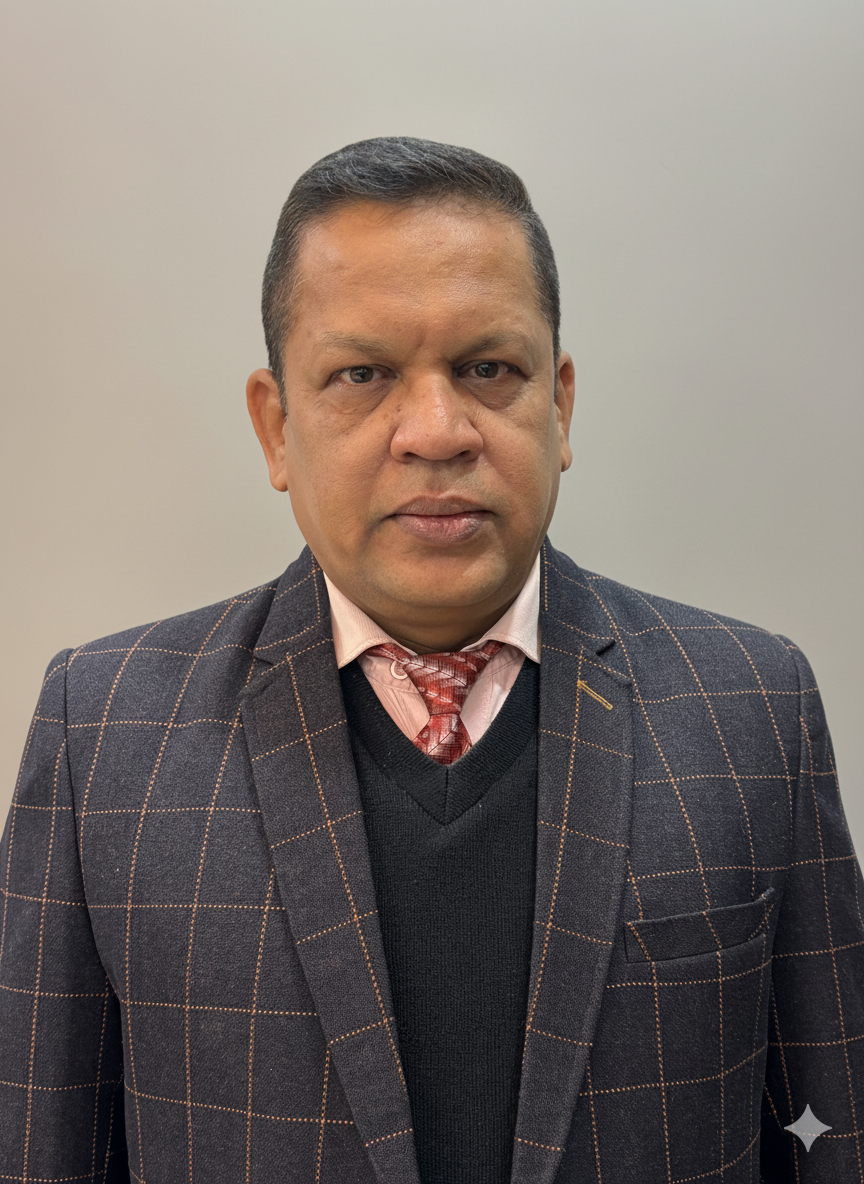
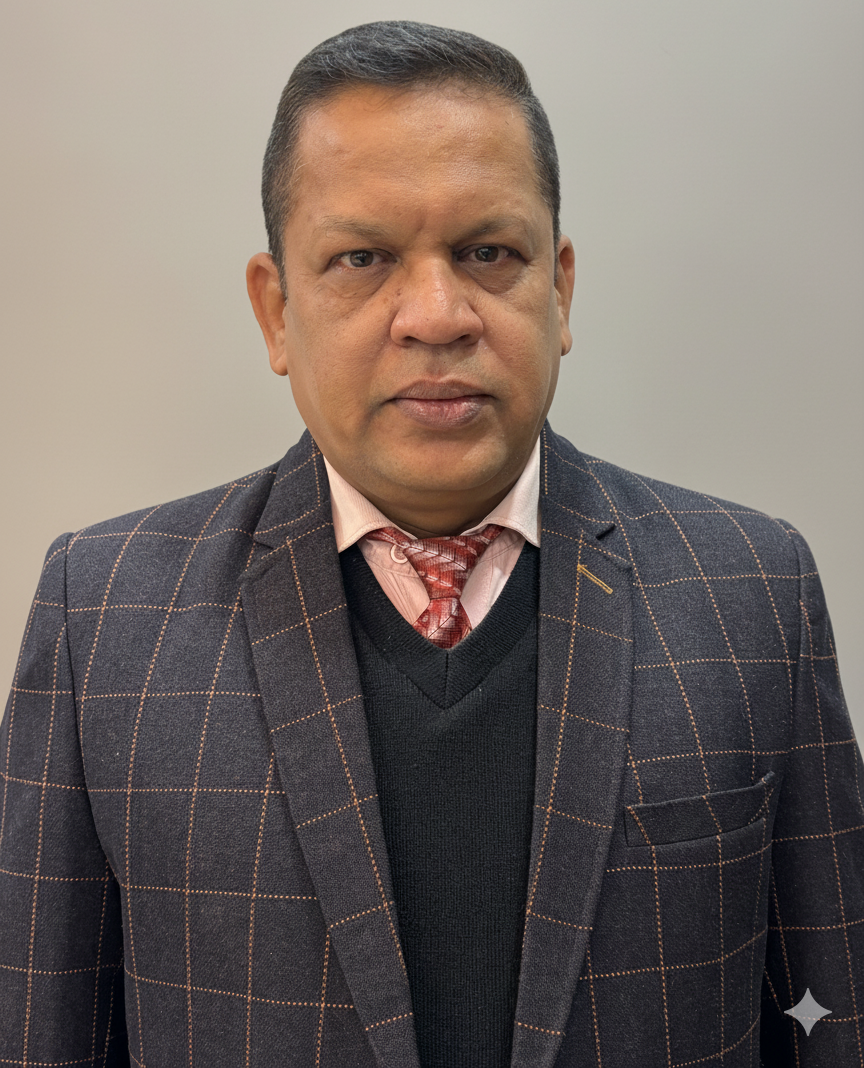
-Added Founders Photos -Added Our Vision section
v.1.8.4

diff --git a/src/components/3OurValuesGrid.jsx b/src/components/3OurValuesGrid.jsx
@@ -1,5 +1,3 @@
-// File: src/components/OurValuesGrid.jsx
-
 import React from "react";
 import { motion } from "framer-motion";
 import {
@@ -8,7 +6,11 @@ import {
   Users,
   SearchCheck,
   AlertCircle,
-  BadgeCheck
+  BadgeCheck,
+  Target,
+  Globe,
+  Zap,
+  TrendingUp
 } from "lucide-react";
 
 const values = [
@@ -48,7 +50,7 @@ const OurValuesGrid = () => {
   return (
     <>
       {/* Our Mission Section */}
-      <section className="relative py-20 md:py-32 px-4 md:px-12 text-white dark:bg-[#fafbff] dark:text-[#000a47] transition-colors overflow-hidden">
+      <section className="relative py-20 md:py-32 px-4 md:px-12 text-white dark:bg-transparent dark:text-[#000a47] transition-colors overflow-hidden">
         {/* Decorative Elements */}
         <div className="absolute top-0 left-0 w-72 h-72 bg-green-500/5 rounded-full blur-3xl"></div>
         <div className="absolute bottom-0 right-0 w-96 h-96 bg-blue-500/5 rounded-full blur-3xl"></div>
@@ -150,8 +152,163 @@ const OurValuesGrid = () => {
         </div>
       </section>
 
+      {/* Our Vision Section */}
+      <section className="relative py-20 md:py-32 px-4 md:px-12 text-white dark:bg-transparent dark:text-[#000a47] transition-colors overflow-hidden">
+        {/* Decorative Elements */}
+        <div className="absolute top-0 right-0 w-72 h-72 bg-blue-500/5 rounded-full blur-3xl"></div>
+        <div className="absolute bottom-0 left-0 w-96 h-96 bg-purple-500/5 rounded-full blur-3xl"></div>
+        
+        <div className="max-w-5xl mx-auto relative z-10">
+          <motion.div
+            initial={{ opacity: 0, y: 30 }}
+            whileInView={{ opacity: 1, y: 0 }}
+            transition={{ duration: 0.8 }}
+            viewport={{ once: true, amount: 0.3 }}
+            className="space-y-12 md:space-y-16"
+          >
+            {/* Eyebrow Text */}
+            <div className="text-center">
+              <motion.p
+                initial={{ opacity: 0 }}
+                whileInView={{ opacity: 1 }}
+                transition={{ delay: 0.2, duration: 0.6 }}
+                viewport={{ once: true }}
+                className="text-blue-400 dark:text-blue-600 text-xs md:text-sm uppercase tracking-[0.3em] font-semibold mb-4"
+              >
+                Where We're Heading
+              </motion.p>
+              <motion.h2
+                initial={{ opacity: 0, y: 20 }}
+                whileInView={{ opacity: 1, y: 0 }}
+                transition={{ delay: 0.3, duration: 0.7 }}
+                viewport={{ once: true }}
+                className="text-4xl md:text-6xl lg:text-7xl font-bold font-playfair mb-3 tracking-tight dark:text-[#000a47] transition-colors"
+              >
+                Our Vision
+              </motion.h2>
+              <motion.div
+                initial={{ scaleX: 0 }}
+                whileInView={{ scaleX: 1 }}
+                transition={{ delay: 0.5, duration: 0.8 }}
+                viewport={{ once: true }}
+                className="w-24 h-1 bg-gradient-to-r from-blue-500 to-purple-500 mx-auto rounded-full"
+              ></motion.div>
+            </div>
+
+            {/* Main Content */}
+            <motion.div
+              initial={{ opacity: 0 }}
+              whileInView={{ opacity: 1 }}
+              transition={{ delay: 0.6, duration: 0.8 }}
+              viewport={{ once: true }}
+              className="space-y-8 md:space-y-10"
+            >
+              <p className="text-xl md:text-2xl lg:text-3xl leading-relaxed md:leading-relaxed font-light text-gray-100 dark:text-[#0a0a0a] transition-colors text-center max-w-4xl mx-auto">
+                To become India's <span className="italic text-blue-300 dark:text-blue-700">most trusted and innovative</span> security solutions provider, setting new benchmarks in <span className="font-semibold text-white dark:text-[#000a47]">safety</span>, <span className="font-semibold text-white dark:text-[#000a47]">technology</span>, and <span className="font-semibold text-white dark:text-[#000a47]">service excellence</span>.
+              </p>
+
+              <div className="grid md:grid-cols-2 gap-8 md:gap-12 mt-12">
+                <motion.div
+                  initial={{ opacity: 0, x: -30 }}
+                  whileInView={{ opacity: 1, x: 0 }}
+                  transition={{ delay: 0.7, duration: 0.6 }}
+                  viewport={{ once: true }}
+                  className="space-y-4"
+                >
+                  <div className="flex items-center gap-3 mb-4">
+                    <div className="p-2 rounded-lg bg-blue-500/20 dark:bg-blue-600/20">
+                      <Globe className="w-6 h-6 text-blue-400 dark:text-blue-600" />
+                    </div>
+                    <h3 className="text-2xl md:text-3xl font-semibold font-playfair text-white dark:text-[#000a47]">
+                      National Expansion
+                    </h3>
+                  </div>
+                  <p className="text-base md:text-lg leading-loose text-gray-300 dark:text-[#2a2a2a] transition-colors">
+                    We envision expanding our presence across every major city in India, becoming the <span className="font-medium text-white dark:text-[#000a47]">go-to security partner</span> for enterprises, residential complexes, events, and government institutions nationwide.
+                  </p>
+                </motion.div>
+
+                <motion.div
+                  initial={{ opacity: 0, x: 30 }}
+                  whileInView={{ opacity: 1, x: 0 }}
+                  transition={{ delay: 0.8, duration: 0.6 }}
+                  viewport={{ once: true }}
+                  className="space-y-4"
+                >
+                  <div className="flex items-center gap-3 mb-4">
+                    <div className="p-2 rounded-lg bg-purple-500/20 dark:bg-purple-600/20">
+                      <Zap className="w-6 h-6 text-purple-400 dark:text-purple-600" />
+                    </div>
+                    <h3 className="text-2xl md:text-3xl font-semibold font-playfair text-white dark:text-[#000a47]">
+                      Tech-Driven Security
+                    </h3>
+                  </div>
+                  <p className="text-base md:text-lg leading-loose text-gray-300 dark:text-[#2a2a2a] transition-colors">
+                    We're committed to integrating <span className="font-medium text-white dark:text-[#000a47]">AI-powered surveillance</span>, real-time monitoring systems, and smart analytics to revolutionize how security is delivered and experienced.
+                  </p>
+                </motion.div>
+              </div>
+
+              <div className="grid md:grid-cols-2 gap-8 md:gap-12">
+                <motion.div
+                  initial={{ opacity: 0, x: -30 }}
+                  whileInView={{ opacity: 1, x: 0 }}
+                  transition={{ delay: 0.9, duration: 0.6 }}
+                  viewport={{ once: true }}
+                  className="space-y-4"
+                >
+                  <div className="flex items-center gap-3 mb-4">
+                    <div className="p-2 rounded-lg bg-green-500/20 dark:bg-green-600/20">
+                      <Target className="w-6 h-6 text-green-400 dark:text-green-600" />
+                    </div>
+                    <h3 className="text-2xl md:text-3xl font-semibold font-playfair text-white dark:text-[#000a47]">
+                      Specialized Solutions
+                    </h3>
+                  </div>
+                  <p className="text-base md:text-lg leading-loose text-gray-300 dark:text-[#2a2a2a] transition-colors">
+                    From <span className="font-medium text-white dark:text-[#000a47]">event security</span> to <span className="font-medium text-white dark:text-[#000a47]">VIP protection</span>, we aim to develop highly specialized divisions that cater to unique security needs with precision and expertise.
+                  </p>
+                </motion.div>
+
+                <motion.div
+                  initial={{ opacity: 0, x: 30 }}
+                  whileInView={{ opacity: 1, x: 0 }}
+                  transition={{ delay: 1, duration: 0.6 }}
+                  viewport={{ once: true }}
+                  className="space-y-4"
+                >
+                  <div className="flex items-center gap-3 mb-4">
+                    <div className="p-2 rounded-lg bg-orange-500/20 dark:bg-orange-600/20">
+                      <TrendingUp className="w-6 h-6 text-orange-400 dark:text-orange-600" />
+                    </div>
+                    <h3 className="text-2xl md:text-3xl font-semibold font-playfair text-white dark:text-[#000a47]">
+                      Empowering Communities
+                    </h3>
+                  </div>
+                  <p className="text-base md:text-lg leading-loose text-gray-300 dark:text-[#2a2a2a] transition-colors">
+                    Beyond business growth, we aspire to <span className="font-medium text-white dark:text-[#000a47]">empower local communities</span> by providing employment, training, and skill development opportunities in the security sector.
+                  </p>
+                </motion.div>
+              </div>
+
+              <motion.div
+                initial={{ opacity: 0, y: 30 }}
+                whileInView={{ opacity: 1, y: 0 }}
+                transition={{ delay: 1.1, duration: 0.7 }}
+                viewport={{ once: true }}
+                className="mt-16 p-8 md:p-12 rounded-2xl bg-gradient-to-br from-white/5 to-white/10 dark:from-[#e8eaff] dark:to-[#f5f7ff] backdrop-blur-sm border border-white/10 dark:border-gray-200"
+              >
+                <p className="text-xl md:text-2xl lg:text-3xl leading-relaxed font-medium text-center text-white dark:text-[#000a47] transition-colors italic">
+                  "To build a <span className="text-blue-400 dark:text-blue-600 not-italic font-bold">safer India</span>, one where security is not a luxury but a <span className="text-blue-400 dark:text-blue-600 not-italic font-bold">fundamental right</span>, accessible to all and powered by <span className="text-blue-400 dark:text-blue-600 not-italic font-bold">innovation</span>."
+                </p>
+              </motion.div>
+            </motion.div>
+          </motion.div>
+        </div>
+      </section>
+
       {/* Our Values Section */}
-      <section className="py-12 md:py-20 px-4 md:px-12 text-white dark:bg-[#f2f4ff] dark:text-[#000a47] transition-colors">
+      <section className="py-12 md:py-20 px-4 md:px-12 text-white bg-transparent dark:bg-transparent dark:text-[#000a47] transition-colors">
         <div className="max-w-6xl mx-auto">
           <motion.h2
             initial={{ opacity: 0, y: 20 }}
@@ -172,7 +329,7 @@ const OurValuesGrid = () => {
                 transition={{ delay: index * 0.1, duration: 0.5 }}
                 viewport={{ once: true, amount: 0.6 }}
                 className="p-4 md:p-5 rounded-xl border border-white/10 bg-white/5 backdrop-blur-sm hover:shadow-lg hover:shadow-green-500/10 transition-all
-                dark:bg-[#fafbff] transition-shadow duration-500 shadow-lg dark:shadow-[0_0_20px_#7B7A72]"
+                dark:bg-[#f2f4ff] transition-shadow duration-500 shadow-lg dark:shadow-[0_0_20px_#7B7A72]"
               >
                 <div className="flex items-center gap-3 mb-3">
                   {item.icon}

diff --git a/src/components/3FounderCard.jsx b/src/components/3FounderCard.jsx
@@ -3,7 +3,8 @@
 import React from "react";
 import { motion } from "framer-motion";
 import { Quote, ShieldCheck, MapPin, Award } from "lucide-react";
-import founderImg from "../assets/logo.png";
+import founderImg1 from "../assets/founder1.png";
+import founderImg2 from "../assets/founder2.png";
 import SpotlightCard from "../ReactBits/SpotlightCard.jsx";
 import { useTheme } from "../ThemeContext.jsx";
 
@@ -39,16 +40,16 @@ const FounderCard = () => {
               className="text-center"
             >
               <div className="relative mb-3 inline-block">
-                <div className="w-24 h-24 sm:w-28 sm:h-28 rounded-full overflow-hidden border-2 border-green-400/30 shadow-lg">
+                <div className="w-28 h-28 sm:w-28 sm:h-28 rounded-full overflow-hidden border-2 border-green-400/30 shadow-lg">
                   <img
-                    src={founderImg}
+                    src={founderImg1}
                     alt="Amardeep Founder"
                     className="w-full h-full object-cover object-top"
                   />
                 </div>
                 
                 <div className="absolute -bottom-1 -right-1 bg-green-400 text-black px-2 py-0.5 rounded-full text-[10px] font-semibold">
-                  CEO
+                  Founder & CEO
                 </div>
               </div>
 
@@ -79,9 +80,9 @@ const FounderCard = () => {
               className="text-center"
             >
               <div className="relative mb-3 inline-block">
-                <div className="w-24 h-24 sm:w-28 sm:h-28 rounded-full overflow-hidden border-2 border-blue-400/30 shadow-lg">
+                <div className="w-28 h-28 sm:w-28 sm:h-28 rounded-full overflow-hidden border-2 border-blue-400/30 shadow-lg">
                   <img
-                    src={founderImg}
+                    src={founderImg2}
                     alt="Co-Founder"
                     className="w-full h-full object-cover object-top"
                   />
@@ -94,7 +95,7 @@ const FounderCard = () => {
 
               <div className="mb-3">
                 <h3 className="text-lg sm:text-xl font-bold font-poppins text-white dark:text-[#010944] mb-1">
-                  Name Here
+                  Dalip Ram
                 </h3>
                 <p className="text-[10px] sm:text-xs text-green-400 font-medium mb-1">Ex Army Chief</p>
                 
@@ -160,14 +161,14 @@ const FounderCard = () => {
               <div className="relative mb-6">
                 <div className="w-48 lg:w-56 h-48 lg:h-56 rounded-full overflow-hidden border-3 border-green-400/20 shadow-xl">
                   <img
-                    src={founderImg}
+                    src={founderImg1}
                     alt="Amardeep Founder"
                     className="w-full h-full object-cover object-top hover:scale-105 transition-transform duration-500"
                   />
                 </div>
                 
                 <div className="absolute -bottom-3 -right-3 bg-green-400 text-black px-4 py-2 rounded-full text-sm font-semibold shadow-lg">
-                  CEO
+                  Founder & CEO
                 </div>
               </div>
 
@@ -179,7 +180,7 @@ const FounderCard = () => {
                 <div className="space-y-2">
                   <div className="flex items-center justify-center gap-3 text-base text-gray-300 dark:text-[#010944]">
                     <ShieldCheck className="w-5 h-5 text-green-400" />
-                    <span>Chief Security Officer</span>
+                    <span>Chief Executive Officer</span>
                   </div>
                   <div className="flex items-center justify-center gap-3 text-sm text-gray-400 dark:text-[#010944]">
                     <div className="w-2 h-2 bg-green-400 rounded-full"></div>
@@ -200,7 +201,7 @@ const FounderCard = () => {
               <div className="relative mb-6">
                 <div className="w-48 lg:w-56 h-48 lg:h-56 rounded-full overflow-hidden border-3 border-blue-400/20 shadow-xl">
                   <img
-                    src={founderImg}
+                    src={founderImg2}
                     alt="Co-Founder"
                     className="w-full h-full object-cover object-top hover:scale-105 transition-transform duration-500"
                   />
@@ -214,7 +215,7 @@ const FounderCard = () => {
               <div className="space-y-3">
                 <div>
                   <h3 className="text-3xl font-bold font-poppins text-white dark:text-[#010944]">
-                    Name Here
+                    Dalip Ram
                   </h3>
                   <p className="text-base text-green-400 font-medium mt-1">Ex Army Chief</p>
                 </div>
@@ -259,7 +260,7 @@ const FounderCard = () => {
                 <div className="text-center mt-6">
                   <div className="w-20 h-0.5 bg-gradient-to-r from-green-400 to-blue-400 mx-auto mb-4"></div>
                   <div className="text-white dark:text-[#010944] font-bold text-xl font-poppins">
-                    — Leadership Team
+                    — Amardeep
                   </div>
                   <div className="text-gray-400 dark:text-[#010944] text-base mt-2">
                     Vyan Security

diff --git a/src/components/Footer.jsx b/src/components/Footer.jsx
@@ -85,7 +85,7 @@ export default function Footer() {
           </div>
         </div>
         <div className="flex items-center justify-center gap-2 mt-2 text-[10px] text-gray-500">
-          <span className="">v1.8.3</span>
+          <span className="">v1.8.4</span>
         </div>
       </div>
 
